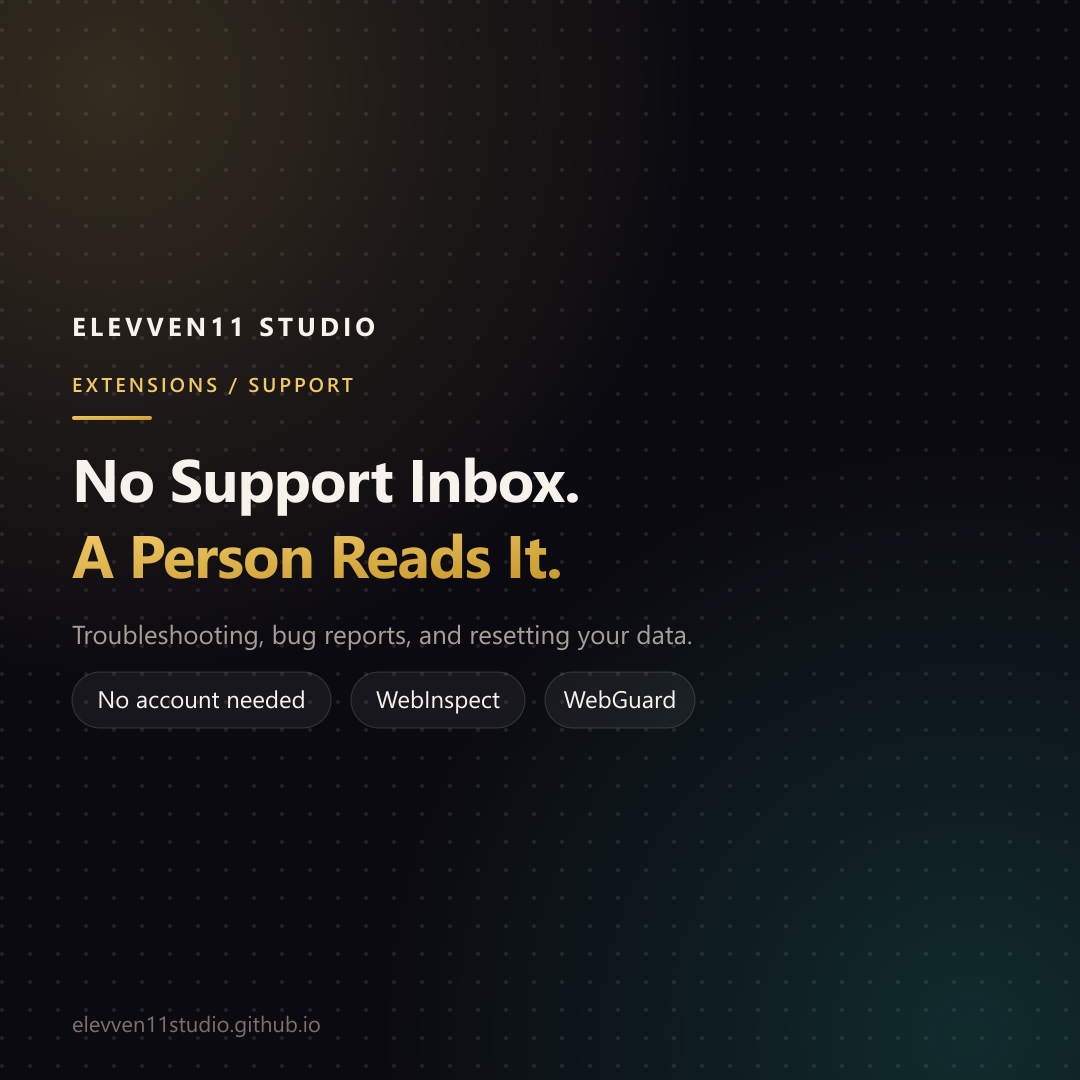
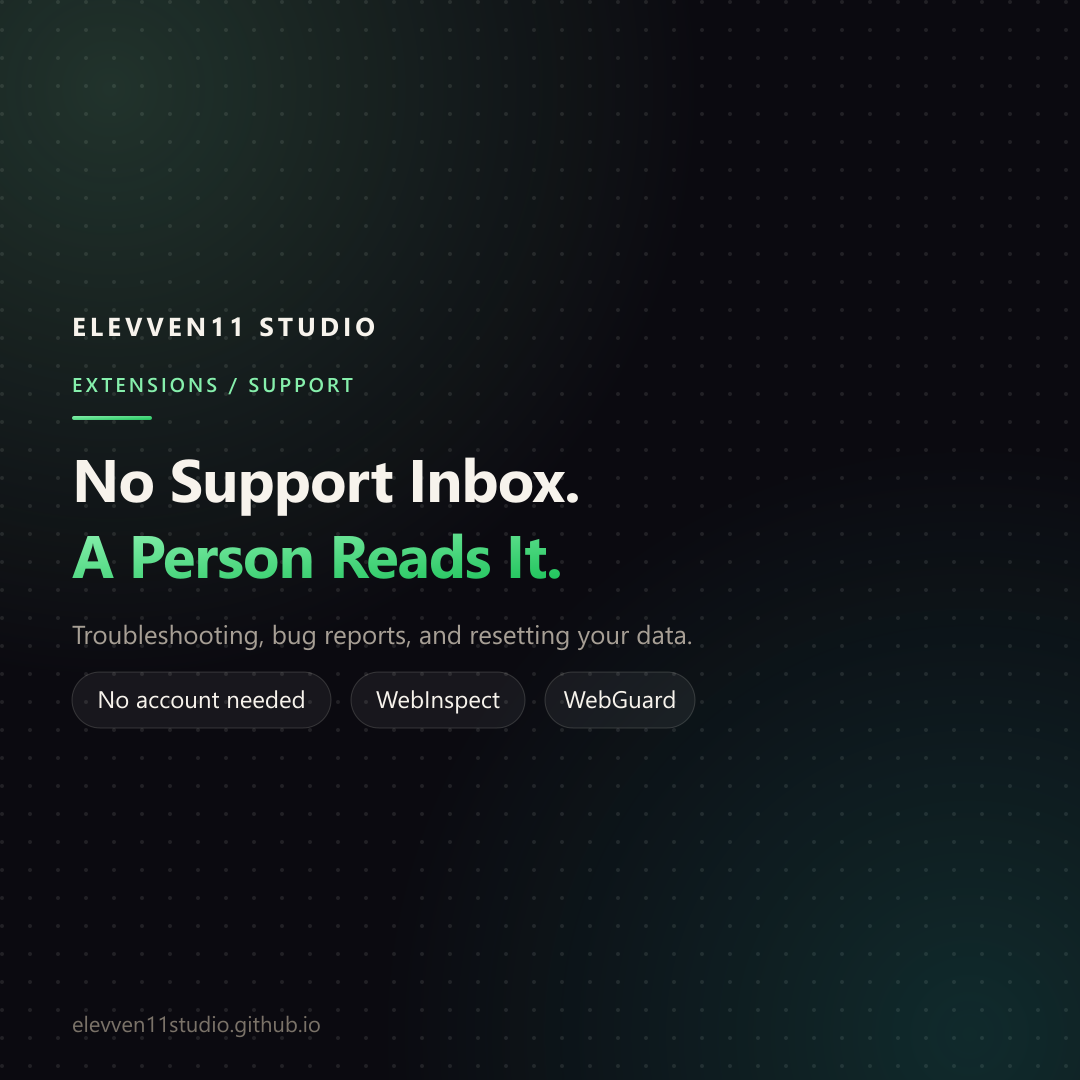
Add accent palettes and update card generation logic for improved visual consistency

Changed region(s): [[0.0611, 0.4889, 0.5194, 0.55], [0.0611, 0.3361, 0.3361, 0.3972]]

diff --git a/tools/generate-og-cards.js b/tools/generate-og-cards.js
@@ -30,11 +30,31 @@ const pillW = t => Math.round(t.length * 12.2 + 52);
 
 const PILL_H = 56;
 
+// Accent palettes. `from`/`to` drive the headline gradient and the eyebrow;
+// `glow` tints the bottom-right corner wash.
+//
+// sky and violet mirror the --accent-gold/--accent-orange overrides that
+// webguard/ and webinspect/ set in their own <style> blocks, so each card
+// carries the colour of the page it links to. Those two also carry their own
+// glow instead of the studio teal, which clashed against blue and purple.
+const ACCENTS = {
+  neon:   { from: '#86efac', to: '#22c55e', glow: '#2dd4bf' },
+  gold:   { from: '#f0c866', to: '#c99a2e', glow: '#2dd4bf' },
+  sky:    { from: '#38bdf8', to: '#0ea5e9', glow: '#0ea5e9' },
+  violet: { from: '#a78bfa', to: '#8b5cf6', glow: '#8b5cf6' }
+};
+
+const palette = (accent) => {
+  const p = ACCENTS[accent];
+  if (!p) throw new Error('unknown accent "' + accent + '" (have: ' + Object.keys(ACCENTS).join(', ') + ')');
+  return p;
+};
+
 function card({ eyebrow, lines, sub, pills = [], accent = 'neon' }) {
-  const grad = accent === 'gold'
-    ? '<stop offset="0%" stop-color="#f0c866"/><stop offset="100%" stop-color="#c99a2e"/>'
-    : '<stop offset="0%" stop-color="#86efac"/><stop offset="100%" stop-color="#22c55e"/>';
-  const eyebrowFill = accent === 'gold' ? '#f0c866' : '#86efac';
+  const pal = palette(accent);
+  const grad = `<stop offset="0%" stop-color="${pal.from}"/><stop offset="100%" stop-color="${pal.to}"/>`;
+  const eyebrowFill = pal.from;
+  const glowFill = pal.glow;
 
   // Pills follow the sub-line rather than sitting at a fixed y: the display
   // type grew, and a hardcoded row collided with the text on two-line cards.
@@ -62,8 +82,8 @@ function card({ eyebrow, lines, sub, pills = [], accent = 'neon' }) {
       <stop offset="100%" stop-color="${eyebrowFill}" stop-opacity="0"/>
     </radialGradient>
     <radialGradient id="glow2" cx="95%" cy="95%" r="60%">
-      <stop offset="0%" stop-color="#2dd4bf" stop-opacity="0.14"/>
-      <stop offset="100%" stop-color="#2dd4bf" stop-opacity="0"/>
+      <stop offset="0%" stop-color="${glowFill}" stop-opacity="0.14"/>
+      <stop offset="100%" stop-color="${glowFill}" stop-opacity="0"/>
     </radialGradient>
     <pattern id="dots" width="28" height="28" patternUnits="userSpaceOnUse">
       <circle cx="2" cy="2" r="2" fill="rgba(247,243,236,0.10)"/>
@@ -95,10 +115,10 @@ function squareCard({ eyebrow, lines, sub, pills = [], accent = 'neon' }) {
   const SIZE = 1080;
   const PAD = 72;
   const MAXW = SIZE - PAD * 2;
-  const grad = accent === 'gold'
-    ? '<stop offset="0%" stop-color="#f0c866"/><stop offset="100%" stop-color="#c99a2e"/>'
-    : '<stop offset="0%" stop-color="#86efac"/><stop offset="100%" stop-color="#22c55e"/>';
-  const eyebrowFill = accent === 'gold' ? '#f0c866' : '#86efac';
+  const pal = palette(accent);
+  const grad = `<stop offset="0%" stop-color="${pal.from}"/><stop offset="100%" stop-color="${pal.to}"/>`;
+  const eyebrowFill = pal.from;
+  const glowFill = pal.glow;
 
   const LOGO_H = 56;      // logo baseline to eyebrow baseline
   const EYEBROW_H = 40;   // eyebrow baseline to accent bar
@@ -159,8 +179,8 @@ function squareCard({ eyebrow, lines, sub, pills = [], accent = 'neon' }) {
       <stop offset="100%" stop-color="${eyebrowFill}" stop-opacity="0"/>
     </radialGradient>
     <radialGradient id="glow2" cx="90%" cy="96%" r="55%">
-      <stop offset="0%" stop-color="#2dd4bf" stop-opacity="0.16"/>
-      <stop offset="100%" stop-color="#2dd4bf" stop-opacity="0"/>
+      <stop offset="0%" stop-color="${glowFill}" stop-opacity="0.16"/>
+      <stop offset="100%" stop-color="${glowFill}" stop-opacity="0"/>
     </radialGradient>
     <pattern id="dots" width="28" height="28" patternUnits="userSpaceOnUse">
       <circle cx="2" cy="2" r="2" fill="rgba(247,243,236,0.10)"/>
@@ -247,27 +267,27 @@ const PAGES = {
     pills: ['No account', 'No server', 'Nothing uploaded'] },
 
   'webguard': { page: 'webguard/index.html', alt: 'WebGuard, a free Chrome extension by Elevven11 Studio that checks pages for phishing',
-    eyebrow: 'WEBGUARD / CHROME', accent: 'gold', lines: ['Spot The Fake', 'Before You Type.'],
+    eyebrow: 'WEBGUARD / CHROME', accent: 'sky', lines: ['Spot The Fake', 'Before You Type.'],
     sub: 'Phishing checks that run on your device, not a server.',
     pills: ['Runs on device', 'Online checks off', 'Free'] },
 
   'webinspect': { page: 'webinspect/index.html', alt: 'WebInspect, a free Chrome extension by Elevven11 Studio that reports on any website',
-    eyebrow: 'WEBINSPECT / CHROME', lines: ['Understand Any', 'Site At A Glance.'],
+    eyebrow: 'WEBINSPECT / CHROME', accent: 'violet', lines: ['Understand Any', 'Site At A Glance.'],
     sub: 'Tech, SEO, accessibility, performance and security.',
     pills: ['One keypress', 'Runs in browser', 'Free on Chrome'] },
 
   'extensions-support': { page: 'extensions/support/index.html', alt: 'Support for the Elevven11 Studio browser extensions',
-    eyebrow: 'EXTENSIONS / SUPPORT', accent: 'gold', lines: ['No Support Inbox.', 'A Person Reads It.'],
+    eyebrow: 'EXTENSIONS / SUPPORT', accent: 'neon', lines: ['No Support Inbox.', 'A Person Reads It.'],
     sub: 'Troubleshooting, bug reports, and resetting your data.',
     pills: ['No account needed', 'WebInspect', 'WebGuard'] },
 
   'webguard-privacy': { page: 'webguard/privacy/index.html', alt: 'WebGuard privacy policy: no servers, no account, no telemetry',
-    eyebrow: 'WEBGUARD / PRIVACY', accent: 'gold', lines: ['No Servers.', 'No Telemetry.'],
+    eyebrow: 'WEBGUARD / PRIVACY', accent: 'sky', lines: ['No Servers.', 'No Telemetry.'],
     sub: 'Online checks are off by default, and off means silent.',
     pills: ['No account', 'Nothing uploaded', 'Passwords stay put'] },
 
   'webinspect-privacy': { page: 'webinspect/privacy/index.html', alt: 'WebInspect privacy policy: no servers, no account, no analytics',
-    eyebrow: 'WEBINSPECT / PRIVACY', lines: ['No Servers.', 'No Analytics.'],
+    eyebrow: 'WEBINSPECT / PRIVACY', accent: 'violet', lines: ['No Servers.', 'No Analytics.'],
     sub: 'Every check runs in your browser. Nothing is uploaded.',
     pills: ['No account', 'No telemetry', 'Nothing uploaded'] }
 };
